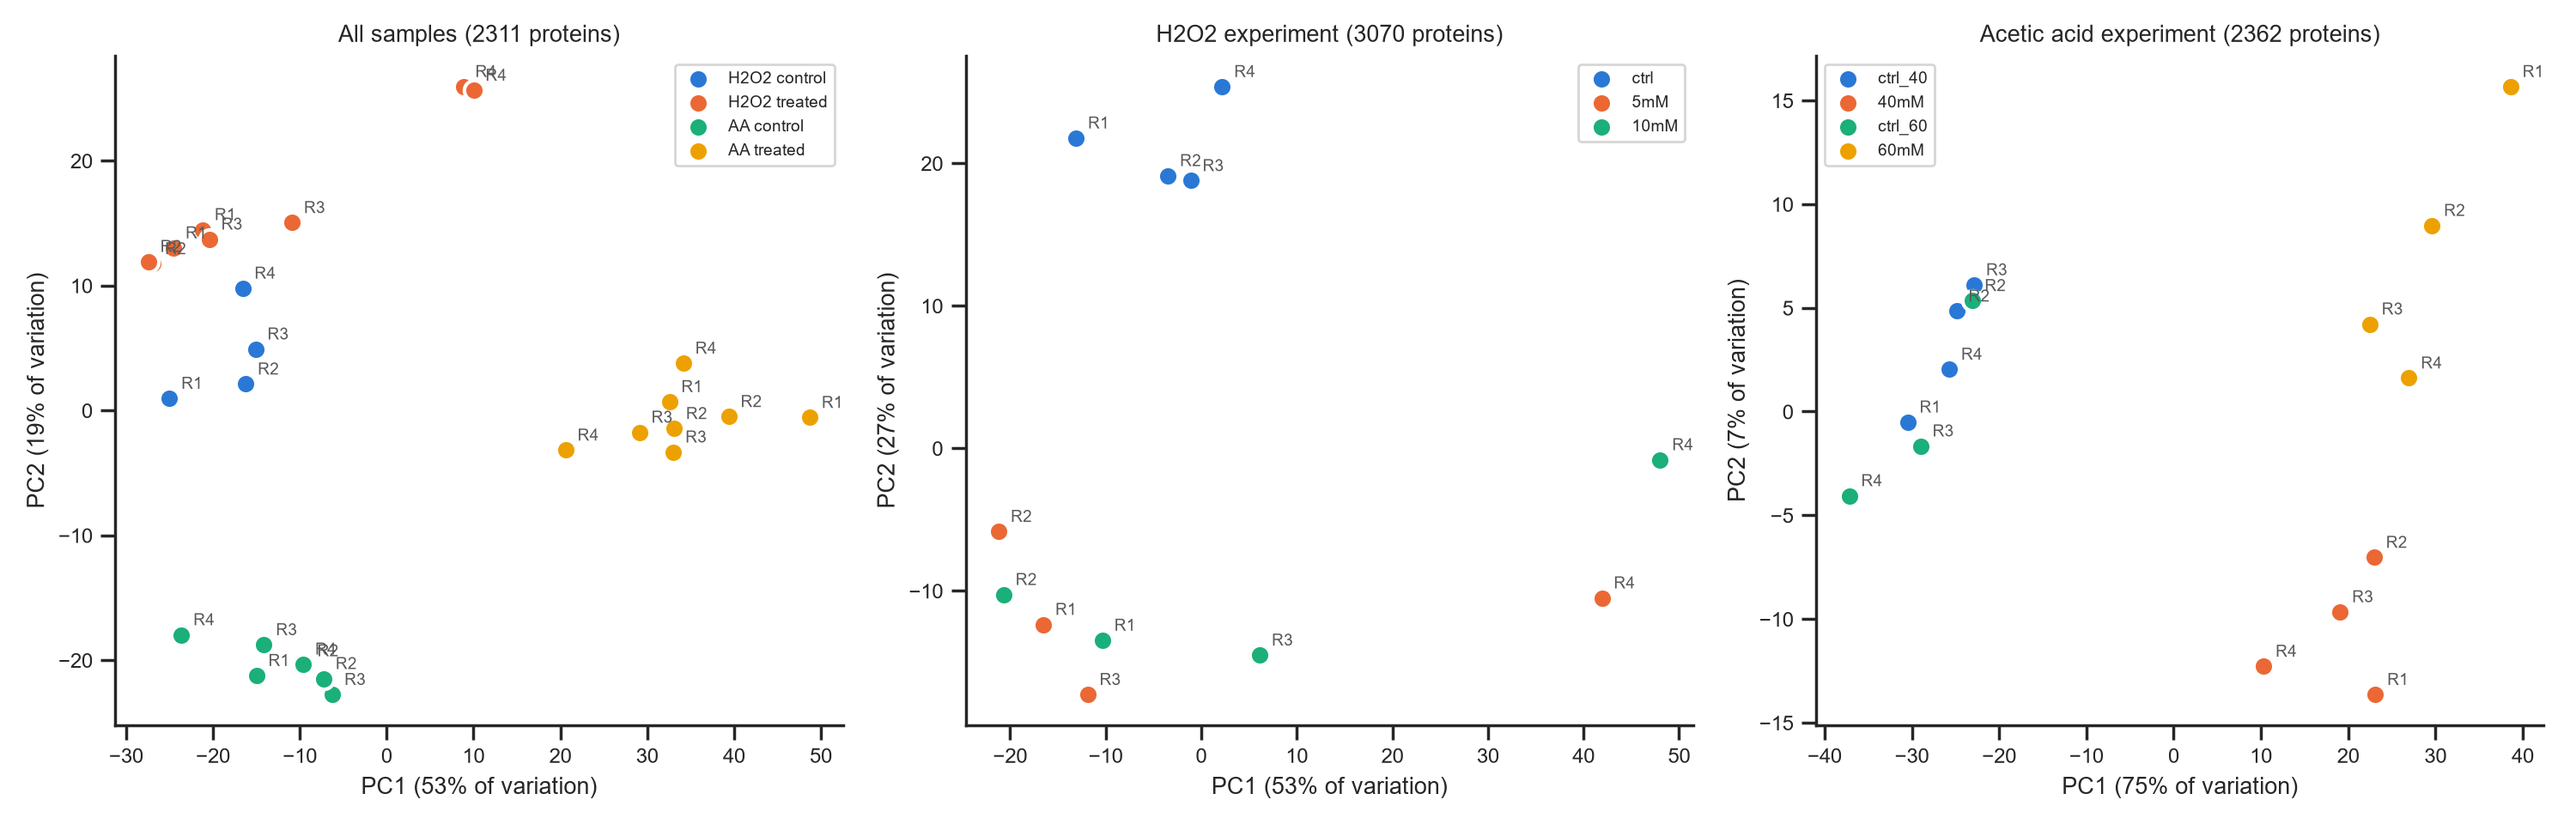
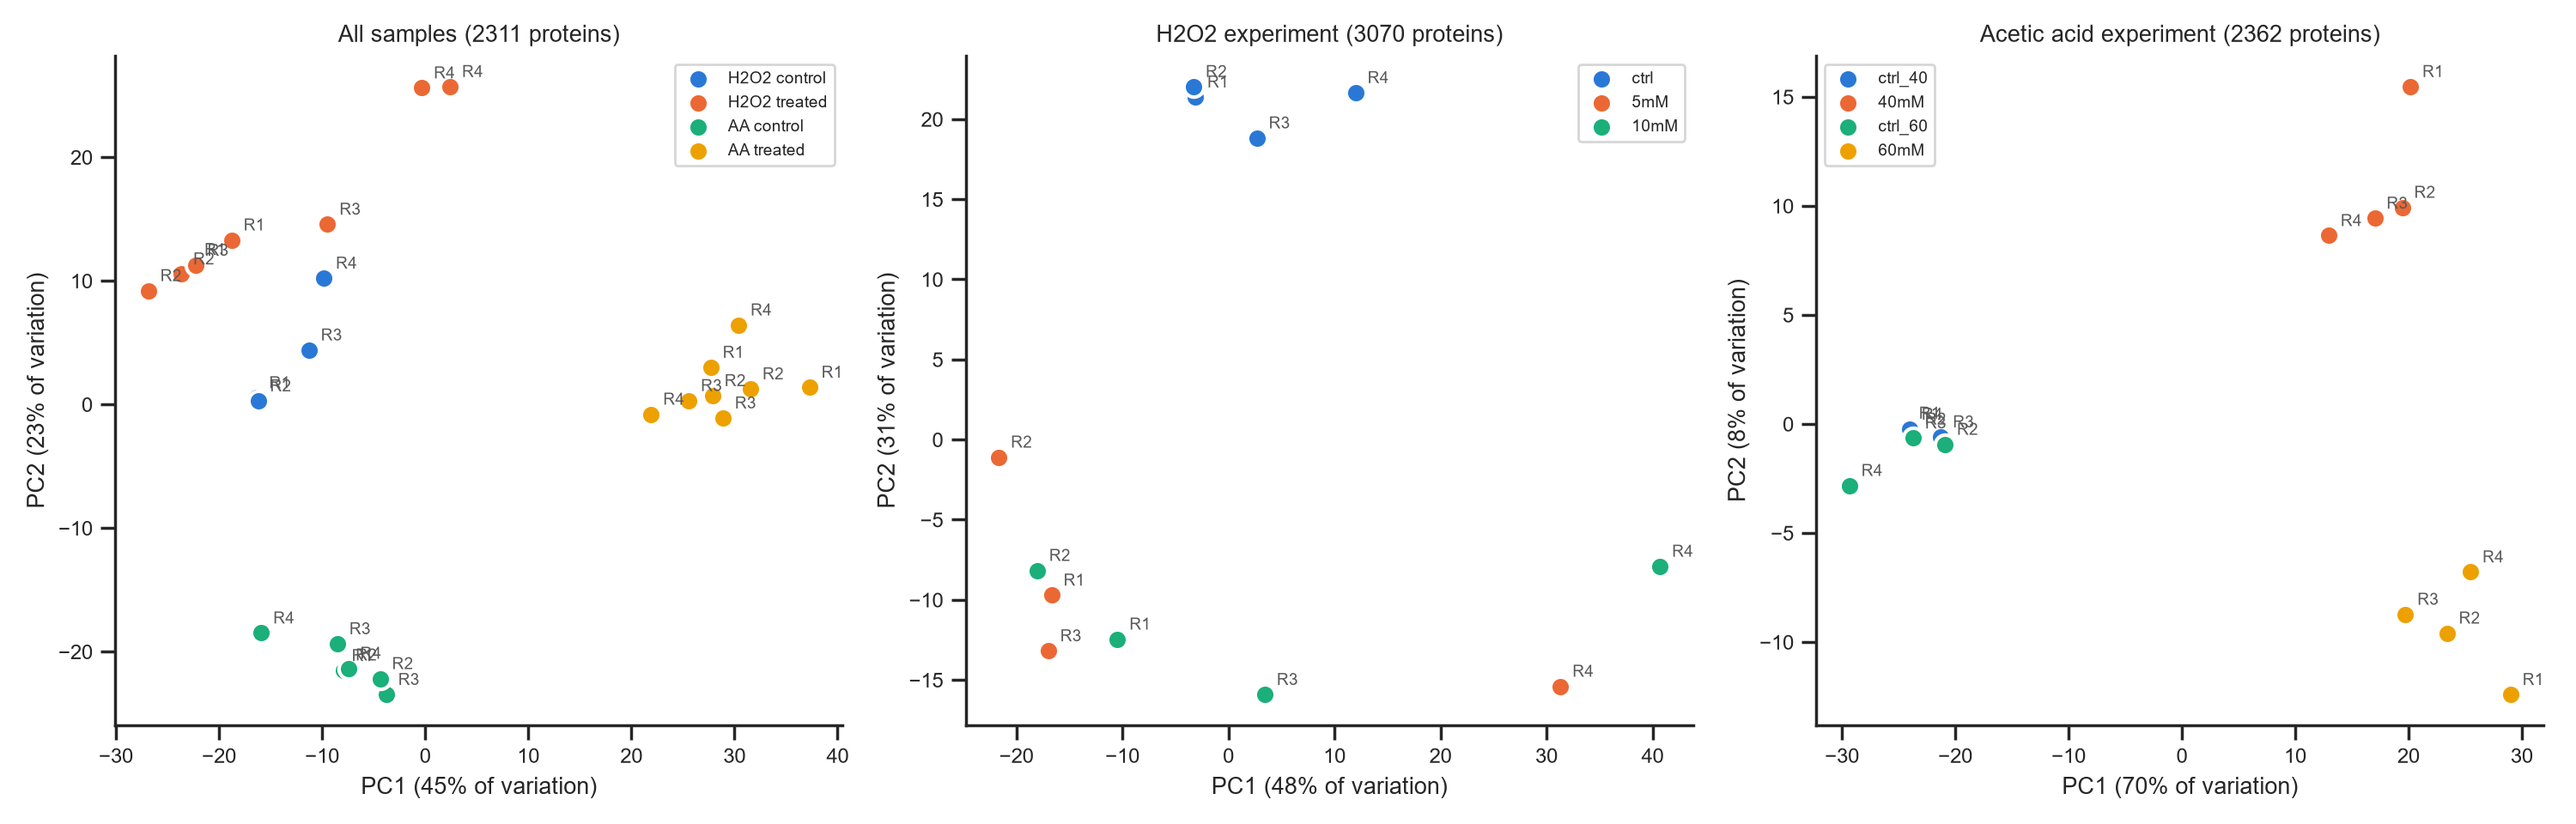
Median normalisation and moderated paired t-test (limma-style) with BH correction

diff --git a/src/differential.py b/src/differential.py
@@ -1,0 +1,190 @@
+"""Differential abundance: which proteins change with H2O2 or acetic acid?
+
+Each treated culture is compared with the control from the same replicate.
+The paired differences are tested with a moderated t-test (the empirical
+Bayes approach of limma): each protein's variance is shrunk towards the
+typical variance of all proteins, which gives more power with few replicates.
+P-values are corrected for testing thousands of proteins with the
+Benjamini-Hochberg method. Results are saved per comparison and shown as
+volcano plots.
+"""
+from pathlib import Path
+
+import matplotlib.pyplot as plt
+import numpy as np
+import pandas as pd
+import seaborn as sns
+from scipy import special, stats
+
+LOG2 = Path("data/processed/protein_log2.tsv")
+OUT_DIR = Path("data/processed")
+FIG_DIR = Path("figures")
+
+MIN_LOG2FC = 0.5   # at least ~1.4-fold change (same cut-off as the paper)
+MAX_Q = 0.05       # at most 5 % false discoveries
+UP, DOWN, NS = "#eb6834", "#2a78d6", "#c3c2b7"
+MARKERS = ["GRE2", "PRN1"]  # positive controls from the paper
+
+# name: (treated group, control group, replicates to pair)
+COMPARISONS = {
+    "H2O2_5mM_vs_ctrl": ("H2O2_5mM", "H2O2_ctrl", [1, 2, 3, 4]),
+    "H2O2_10mM_vs_ctrl": ("H2O2_10mM", "H2O2_ctrl", [1, 2, 3, 4]),
+    "AA_40mM_vs_ctrl": ("AA_40mM", "AA_ctrl_40", [1, 2, 3, 4]),
+    "AA_60mM_vs_ctrl": ("AA_60mM", "AA_ctrl_60", [2, 3, 4]),  # CC60R1 is missing
+    # sensitivity check: H2O2 without the outlying replicate 4 (see PCA)
+    "H2O2_5mM_vs_ctrl_noR4": ("H2O2_5mM", "H2O2_ctrl", [1, 2, 3]),
+    "H2O2_10mM_vs_ctrl_noR4": ("H2O2_10mM", "H2O2_ctrl", [1, 2, 3]),
+}
+
+
+def bh_adjust(p: np.ndarray) -> np.ndarray:
+    """Benjamini-Hochberg: turn p-values into q-values (false discovery rate)."""
+    n = len(p)
+    order = np.argsort(p)                              # smallest p first
+    q = p[order] * n / np.arange(1, n + 1)             # p x n / rank
+    q = np.minimum.accumulate(q[::-1])[::-1]           # keep q non-decreasing
+    out = np.empty(n)
+    out[order] = np.minimum(q, 1)
+    return out
+
+
+def trigamma_inverse(x: float) -> float:
+    """Solve trigamma(y) = x for y with Newton's method (as in limma)."""
+    if x > 1e7:
+        return 1 / np.sqrt(x)
+    if x < 1e-6:
+        return 1 / x
+    y = 0.5 + 1 / x
+    for _ in range(50):
+        tri = special.polygamma(1, y)
+        step = tri * (1 - tri / x) / special.polygamma(2, y)
+        y += step
+        if -step / y < 1e-8:
+            break
+    return y
+
+
+def moderated_paired_t(diffs: np.ndarray) -> np.ndarray:
+    """Moderated t-test on paired differences (one row per protein).
+
+    1. Every protein gets its own variance s2 from its few differences.
+    2. A prior variance s0 and its weight d0 are estimated from the
+       distribution of all s2 values (limma's fitFDist).
+    3. Each s2 is pulled towards s0: s2_post = (d0*s0 + d*s2) / (d0 + d).
+    Returns two-sided p-values.
+    """
+    n = diffs.shape[1]
+    d = n - 1                                          # degrees of freedom per protein
+    mean = diffs.mean(axis=1)
+    s2 = diffs.var(axis=1, ddof=1)
+    s2 = np.maximum(s2, 1e-5 * np.median(s2))          # avoid log(0)
+
+    e = np.log(s2) - special.digamma(d / 2) + np.log(d / 2)
+    extra_var = e.var(ddof=1) - special.polygamma(1, d / 2)
+    if extra_var > 0:
+        d0 = 2 * trigamma_inverse(extra_var)
+        s0 = np.exp(e.mean() + special.digamma(d0 / 2) - np.log(d0 / 2))
+        s2_post = (d0 * s0 + d * s2) / (d0 + d)
+    else:                                              # all proteins equally variable
+        d0, s2_post = np.inf, np.full_like(s2, np.exp(e.mean()))
+
+    t = mean / np.sqrt(s2_post / n)
+    return 2 * stats.t.sf(np.abs(t), d + d0)
+
+
+def compare(data: pd.DataFrame, treated: str, control: str, reps: list[int]) -> pd.DataFrame:
+    """Moderated paired t-test for every protein quantified in all pairs."""
+    t_cols = [f"{treated}_R{r}" for r in reps]
+    c_cols = [f"{control}_R{r}" for r in reps]
+    complete = data[t_cols + c_cols].notna().all(axis=1)
+    sub = data[complete]
+    t_vals, c_vals = sub[t_cols].to_numpy(), sub[c_cols].to_numpy()
+
+    res = sub[["Protein.Group", "Genes"]].copy()
+    res["log2FC"] = (t_vals - c_vals).mean(axis=1)     # mean of paired differences
+    res["p"] = moderated_paired_t(t_vals - c_vals)
+    res["q"] = bh_adjust(res["p"].to_numpy())
+    res["n_pairs"] = len(reps)
+    big = res["log2FC"].abs() > MIN_LOG2FC
+    res["direction"] = np.where(big & (res["q"] < MAX_Q),
+                                np.where(res["log2FC"] > 0, "up", "down"), "ns")
+    return res.sort_values("p")
+
+
+def is_marker(genes: pd.Series, name: str) -> pd.Series:
+    """Exact gene-name match (GRE2 must not match e.g. GRE22)."""
+    return genes.fillna("").str.upper().str.split(";").apply(lambda g: name in g)
+
+
+def volcano(ax: plt.Axes, res: pd.DataFrame, title: str) -> None:
+    y = -np.log10(res["p"])
+    for direction, colour in [("ns", NS), ("down", DOWN), ("up", UP)]:
+        pts = res["direction"] == direction
+        n = pts.sum()
+        label = {"ns": f"not significant ({n})", "up": f"up ({n})", "down": f"down ({n})"}
+        ax.scatter(res.loc[pts, "log2FC"], y[pts], s=8, color=colour,
+                   linewidth=0, alpha=0.8, label=label[direction])
+    for name in MARKERS:                                # label Gre2 and Prn1
+        hit = res[is_marker(res["Genes"], name)]
+        if len(hit):
+            x0, y0 = hit["log2FC"].iloc[0], -np.log10(hit["p"].iloc[0])
+            ax.scatter(x0, y0, s=40, facecolor="none", edgecolor="black", linewidth=1)
+            ax.annotate(name.capitalize(), (x0, y0), xytext=(6, 4),
+                        textcoords="offset points", fontsize=8, weight="bold")
+    for x in (-MIN_LOG2FC, MIN_LOG2FC):
+        ax.axvline(x, color="0.6", linewidth=0.8, linestyle="--")
+    ax.set(title=title, xlabel="log2 fold change (treated / control)",
+           ylabel="-log10 p-value")
+    ax.legend(fontsize=7, loc="upper left", frameon=False)
+
+
+def main() -> None:
+    data = pd.read_csv(LOG2, sep="\t")
+    OUT_DIR.mkdir(parents=True, exist_ok=True)
+    FIG_DIR.mkdir(exist_ok=True)
+
+    results, rows = {}, []
+    for name, (treated, control, reps) in COMPARISONS.items():
+        res = compare(data, treated, control, reps)
+        res.to_csv(OUT_DIR / f"de_{name}.tsv", sep="\t", index=False)
+        results[name] = res
+        rows.append({"comparison": name, "pairs": len(reps), "tested": len(res),
+                     "p<0.05": (res["p"] < 0.05).sum(),
+                     "up": (res["direction"] == "up").sum(),
+                     "down": (res["direction"] == "down").sum()})
+    print("Significant proteins (q < 0.05 and |log2FC| > 0.5)")
+    print(pd.DataFrame(rows).to_string(index=False))
+
+    print("\nPositive controls")
+    for name, res in results.items():
+        for marker in MARKERS:
+            hit = res[is_marker(res["Genes"], marker)]
+            if len(hit):
+                h = hit.iloc[0]
+                print(f"{name:24s} {marker}: log2FC {h['log2FC']:5.2f}  "
+                      f"p {h['p']:.1e}  q {h['q']:.1e}  {h['direction']}")
+            else:
+                print(f"{name:24s} {marker}: not quantified in all pairs")
+
+    # Overlap between the full and the no-R4 analysis
+    for dose in ("5mM", "10mM"):
+        full = results[f"H2O2_{dose}_vs_ctrl"]
+        no_r4 = results[f"H2O2_{dose}_vs_ctrl_noR4"]
+        a = set(full.loc[full["direction"] != "ns", "Protein.Group"])
+        b = set(no_r4.loc[no_r4["direction"] != "ns", "Protein.Group"])
+        print(f"\nH2O2 {dose}: {len(a)} significant with R4, {len(b)} without R4, "
+              f"{len(a & b)} in both")
+
+    sns.set_theme(style="ticks", font_scale=0.8)
+    main_four = list(COMPARISONS)[:4]
+    fig, axes = plt.subplots(2, 2, figsize=(11, 9))
+    for ax, name in zip(axes.flat, main_four):
+        volcano(ax, results[name], name.replace("_", " "))
+    sns.despine(fig=fig)
+    fig.tight_layout()
+    fig.savefig(FIG_DIR / "volcano.png", dpi=200)
+    print("\nsaved figures/volcano.png")
+
+
+if __name__ == "__main__":
+    main()

diff --git a/src/prepare_matrix.py b/src/prepare_matrix.py
@@ -1,8 +1,8 @@
 """Combine the DIA-NN protein table with the sample annotation.
 
 Reads the DIA-NN protein group matrix, renames the run columns to readable
-sample labels (e.g. H2O2_5mM_R1), log2-transforms the quantities and saves
-the result together with a per-sample summary.
+sample labels (e.g. H2O2_5mM_R1), log2-transforms and median-normalises the
+quantities and saves the result together with a per-sample summary.
 """
 from pathlib import Path, PureWindowsPath
 
@@ -22,6 +22,18 @@ def make_label(row: pd.Series) -> str:
     return label
 
 
+def median_normalise(log2: pd.DataFrame) -> tuple[pd.DataFrame, pd.Series]:
+    """Shift every sample so that all samples have the same median.
+
+    The median is taken over proteins quantified in every sample, so that
+    samples with more missing values are not compared on a different set of
+    proteins. Assumes that most proteins do not change between samples.
+    """
+    common = log2.dropna()
+    shift = common.median() - common.median().median()
+    return log2 - shift, shift
+
+
 def main() -> None:
     pg = pd.read_csv(PG_MATRIX, sep="\t")
     ann = pd.read_csv(ANNOTATION, sep="\t", dtype={"replicate": str})
@@ -36,13 +48,14 @@ def main() -> None:
     # Missing values can appear as empty cells or zeros; log2 needs NaN for both
     log2 = np.log2(quant.replace(0, np.nan))
     log2 = log2[ann["label"]]  # same order as the annotation table
+    log2, shift = median_normalise(log2)
 
     OUT_DIR.mkdir(parents=True, exist_ok=True)
     pd.concat([info, log2], axis=1).to_csv(OUT_DIR / "protein_log2.tsv", sep="\t", index=False)
 
     summary = ann[["label", "file", "sample_name"]].copy()
     summary["proteins_quantified"] = log2.notna().sum().values
-    summary["median_log2"] = log2.median().round(2).values
+    summary["normalisation_shift"] = shift.round(2).values
     summary.to_csv(OUT_DIR / "sample_summary.tsv", sep="\t", index=False)
 
     print(f"{len(log2)} protein groups x {log2.shape[1]} samples\n")
